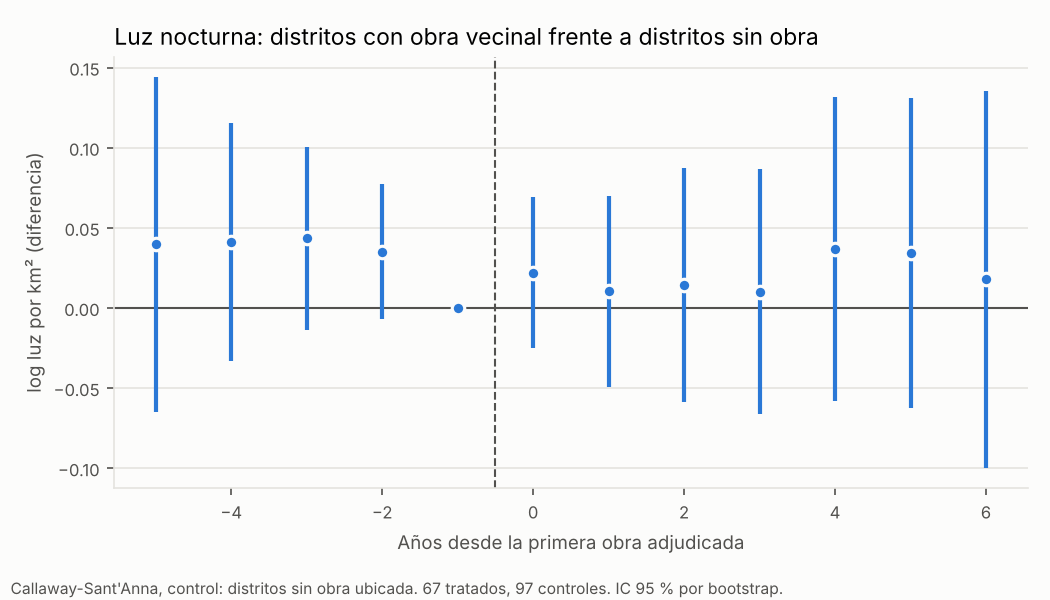
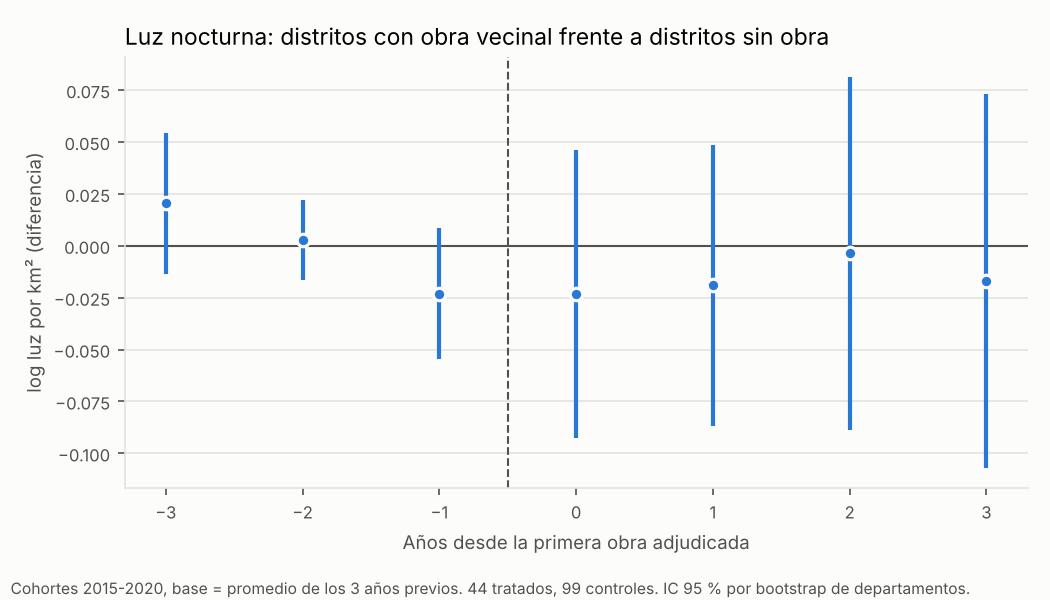
Incorpora la revisión econométrica al análisis censal
Inferencia por permutación dentro de departamento, intervalos con t(12),
dosis por número de obras, sensibilidad a la contaminación del control y
estudio de luz nocturna con cohortes balanceadas, base promedio y bootstrap
por departamento.

Claude-Session: https://claude.ai/code/session_01UUJkAC8tnPcgu9dLUHT9pp

diff --git a/_scripts/cen_03_luces_estudio_eventos.py b/_scripts/cen_03_luces_estudio_eventos.py
@@ -1,7 +1,7 @@
 # Paso 3 del análisis censal (complemento): luz nocturna por distrito 2012-2024 alrededor del año de la primera obra
-# vecinal ubicada en el distrito. Estimador de Callaway y Sant'Anna con grupo de control "nunca tratado": para cada cohorte
-# g (año de la primera obra) y año t, ATT(g,t) = [Y(g,t) - Y(g,g-1)] - [Y(control,t) - Y(control,g-1)]; luego se promedia
-# por años desde la obra, ponderando por el tamaño de cada cohorte. Errores por bootstrap de distritos (499 repeticiones).
+# vecinal ubicada en el distrito. Estimador del tipo Callaway y Sant'Anna con grupo de control sin obra: para cada cohorte
+# g (año de la primera obra) y año t, ATT(g,t) = [Y(g,t) - base(g)] - [Y(control,t) - base(control)], con base = promedio de
+# g-3 a g-1; se promedia por años desde la obra ponderando por el tamaño de cada cohorte.
 import numpy as np, pandas as pd
 import matplotlib
 matplotlib.use('Agg')
@@ -15,13 +15,15 @@ b = b[b.muestra == 1]
 l = pd.read_csv(R + '/07_clima_y_contexto/luces_nocturnas_VIIRS/luces_nocturnas_por_distrito_2012_2024.csv', dtype={'cod_dist': str})
 l = l.merge(b[['cod_dist', 'cod_dpto', 'obra', 'primer_anio_2012_2020', 'n_obras_2021_2025', 'log_area_km2']], on='cod_dist')
 l['log_luz_km2'] = np.log1p(l.luz_suma / np.exp(l.log_area_km2) * 100)
-# controles: distritos sin obra ubicada hasta 2025; tratados: primera obra 2013-2020 (la cohorte 2012 no tiene año previo)
+# Ventana balanceada de -3 a +3 años: solo cohortes con primera obra 2015-2020 (todas tienen los 7 años en 2012-2024).
+# Base = promedio de los 3 años previos (g-3 a g-1), para no depender de un único año. Control: distritos sin obra ubicada
+# 2012-2020 (sin condicionar a obras posteriores). Bootstrap por departamento (se remuestrean departamentos enteros).
 l['cohorte'] = l.primer_anio_2012_2020
-ctrl_ids = b[(b.obra == 0) & (b.n_obras_2021_2025 == 0)].cod_dist
-trat = b[b.primer_anio_2012_2020.between(2013, 2020)]
 Y = l.pivot(index='cod_dist', columns='anio', values='log_luz_km2')
-coh = trat.set_index('cod_dist').primer_anio_2012_2020.astype(int)
-E = range(-5, 7)
+dpto = b.set_index('cod_dist').cod_dpto
+ctrl_all = b[b.obra == 0].cod_dist
+trat_all = b[b.primer_anio_2012_2020.between(2015, 2020)].set_index('cod_dist').primer_anio_2012_2020.astype(int)
+E = range(-3, 4)
 
 
 def att(coh, ctrl):
@@ -29,39 +31,43 @@ def att(coh, ctrl):
     for e in E:
         num, den = 0.0, 0
         for g, ids in coh.groupby(coh).groups.items():
-            t = g + e
-            if t not in Y.columns or g - 1 not in Y.columns or e == -1: continue
-            dt = (Y.loc[ids, t] - Y.loc[ids, g - 1]).mean()
-            dc = (Y.loc[ctrl, t] - Y.loc[ctrl, g - 1]).mean()
+            base = [g - 3, g - 2, g - 1]
+            dt = (Y.loc[ids, g + e] - Y.loc[ids, base].mean(axis=1)).mean()
+            dc = (Y.loc[ctrl, g + e] - Y.loc[ctrl, base].mean(axis=1)).mean()
             num += len(ids) * (dt - dc); den += len(ids)
-        out[e] = num / den if den else np.nan
-    out[-1] = 0.0
-    return pd.Series(out).sort_index()
+        out[e] = num / den
+    return pd.Series(out)
 
 
-est = att(coh, ctrl_ids.values)
+est = att(trat_all, ctrl_all.values)
+dptos = dpto.reindex(pd.Index(trat_all.index).union(ctrl_all)).unique()
 boots = []
 for _ in range(499):
-    c2 = pd.Series(coh.values, index=coh.index).sample(len(coh), replace=True, random_state=rng.integers(1e9))
-    k2 = rng.choice(ctrl_ids.values, len(ctrl_ids), replace=True)
-    boots.append(att(c2, k2))
-se = pd.concat(boots, axis=1).std(axis=1)
-r = pd.DataFrame({'anios_desde_primera_obra': est.index, 'coef': est.values, 'ee_bootstrap': se.reindex(est.index).values})
-post = [e for e in E if e >= 0]
-promedio = np.mean([est[e] for e in post]); se_prom = np.std([np.mean([bb[e] for e in post]) for bb in boots])
-pre_prom = np.mean([est[e] for e in E if e <= -2]); se_pre = np.std([np.mean([bb[e] for e in E if e <= -2]) for bb in boots])
+    dd = rng.choice(dptos, len(dptos), replace=True)
+    ti = [i for d_ in dd for i in trat_all.index[dpto.reindex(trat_all.index).values == d_]]
+    ci = [i for d_ in dd for i in ctrl_all[dpto.reindex(ctrl_all).values == d_]]
+    if not ti or not ci: continue
+    boots.append(att(trat_all.loc[ti], np.array(ci)))
+B = pd.concat(boots, axis=1)
+se = B.std(axis=1)
+r = pd.DataFrame({'anios_desde_primera_obra': est.index, 'coef': est.values, 'ee_bootstrap_dpto': se.values})
+post, pre = [0, 1, 2, 3], [-3, -2, -1]
+dif = est[post].mean() - est[pre].mean(); se_dif = (B.loc[post].mean() - B.loc[pre].mean()).std()
 r.to_csv(OUT + '/resultados_luces_estudio_eventos.csv', index=False, encoding='utf-8-sig')
 with open(OUT + '/resultados_luces_resumen.txt', 'w') as f:
-    f.write(f'Distritos tratados (primera obra 2013-2020): {len(coh)}; controles (sin obra ubicada 2012-2025): {len(ctrl_ids)}\n')
-    f.write(f'Efecto promedio años 0 a 6: {promedio:.4f} (EE {se_prom:.4f})\n')
-    f.write(f'Promedio años -5 a -2 (tendencia previa): {pre_prom:.4f} (EE {se_pre:.4f})\n')
+    f.write(f'Cohortes 2015-2020 (ventana balanceada -3 a +3): {len(trat_all)} distritos tratados; controles sin obra ubicada 2012-2020: {len(ctrl_all)}\n')
+    f.write(f'Base: promedio de los 3 años previos a la primera obra. Bootstrap por departamento ({B.shape[1]} repeticiones).\n')
+    f.write(f'Promedio años 0 a +3: {est[post].mean():.4f} (EE {B.loc[post].mean().std():.4f})\n')
+    f.write(f'Promedio años -3 a -1: {est[pre].mean():.4f} (por construcción cercano a 0)\n')
+    f.write(f'Diferencia después - antes: {dif:.4f} (EE {se_dif:.4f})\n')
 print(open(OUT + '/resultados_luces_resumen.txt').read()); print(r.round(4).to_string())
+coh = trat_all; ctrl_ids = ctrl_all
 
 # Gráfico
 SERIE, TXT2, GRID, FONDO = '#2a78d6', '#52514e', '#e4e3df', '#fcfcfb'
 fig, a = plt.subplots(figsize=(7, 4), facecolor=FONDO); a.set_facecolor(FONDO)
 a.axhline(0, color=TXT2, lw=1); a.axvline(-0.5, color=TXT2, lw=1, ls='--')
-a.errorbar(r.anios_desde_primera_obra, r.coef, yerr=1.96 * r.ee_bootstrap, fmt='o', color=SERIE, ms=6, lw=2, capsize=0,
+a.errorbar(r.anios_desde_primera_obra, r.coef, yerr=1.96 * r.ee_bootstrap_dpto, fmt='o', color=SERIE, ms=6, lw=2, capsize=0,
            markeredgecolor=FONDO, markeredgewidth=1.5)
 a.set_title('Luz nocturna: distritos con obra vecinal frente a distritos sin obra', fontsize=11, loc='left')
 a.set_xlabel('Años desde la primera obra adjudicada', color=TXT2, fontsize=9)
@@ -69,6 +75,6 @@ a.set_ylabel('log luz por km² (diferencia)', color=TXT2, fontsize=9)
 a.tick_params(colors=TXT2, labelsize=8); a.grid(axis='y', color=GRID, lw=0.8); a.set_axisbelow(True)
 for s_ in ['top', 'right']: a.spines[s_].set_visible(False)
 for s_ in ['left', 'bottom']: a.spines[s_].set_color(GRID)
-fig.text(0.01, 0.01, f'Callaway-Sant\'Anna, control: distritos sin obra ubicada. {len(coh)} tratados, {len(ctrl_ids)} controles. IC 95 % por bootstrap.',
+fig.text(0.01, 0.01, f'Cohortes 2015-2020, base = promedio de los 3 años previos. {len(coh)} tratados, {len(ctrl_ids)} controles. IC 95 % por bootstrap de departamentos.',
          color=TXT2, fontsize=7.5)
 fig.tight_layout(rect=(0, 0.04, 1, 1)); fig.savefig(OUT + '/luces_estudio_eventos.png', dpi=150, facecolor=FONDO)

diff --git a/_scripts/cen_02_modelos_distritales.py b/_scripts/cen_02_modelos_distritales.py
@@ -87,7 +87,41 @@ lim = s.drop_duplicates('cod_dpto').gs_solo_dpto_por_hab_rural.median()
 sc = s[s.gs_solo_dpto_por_hab_rural <= lim]
 correr('C9 Departamentos con pocas obras sin ubicar', f'd_nbi ~ obra + nbi_2012 + C(cod_dpto) + {CTRL}', sc, 'obra',
        'menos riesgo de que un distrito "sin obra" haya tenido una obra no ubicada')
-pd.DataFrame(res).to_csv(OUT + '/resultados_nbi_2012_2022.csv', index=False, encoding='utf-8-sig')
+s['obra_1'] = (s.n_obras_2012_2020 == 1).astype(int); s['obra_2'] = (s.n_obras_2012_2020 == 2).astype(int)
+s['obra_3mas'] = (s.n_obras_2012_2020 >= 3).astype(int)
+for v_ in ['obra_1', 'obra_2', 'obra_3mas']:
+    correr(f'C10 Dosis: {v_.replace("obra_", "")} obra(s)', f'd_nbi ~ obra_1 + obra_2 + obra_3mas + nbi_2012 + C(cod_dpto) + {CTRL}', s, v_)
+out = pd.DataFrame(res)
+
+# Intervalo de confianza 95 % con la t de Student de 12 grados de libertad (13 departamentos) y efecto mínimo detectable
+from scipy import stats
+tc = stats.t.ppf(0.975, 12)
+out['ic95_inf'] = out.coef - tc * out.ee_cluster_dpto; out['ic95_sup'] = out.coef + tc * out.ee_cluster_dpto
+out['efecto_minimo_detectable'] = 2.8 * out.ee_cluster_dpto
+
+# Inferencia por permutación: se reasigna la obra al azar entre distritos del mismo departamento (2.000 veces)
+rng = np.random.default_rng(2022)
+perm = {}
+for nombre, f in [('C1 Cambio NBI ~ obra + EF depto', 'd_nbi ~ obra + C(cod_dpto)'),
+                  ('C3 + NBI 2012 (nivel inicial)', f'd_nbi ~ obra + nbi_2012 + C(cod_dpto) + {CTRL}')]:
+    m = Fit(f, s, 'obra'); yw = m.y * m.sw; Xw = m.Xw.copy(); obs = m.coef()
+    tr = m.d.obra.values; grp = m.d.cod_dpto.values
+    dist = []
+    for _ in range(2000):
+        t2 = tr.copy()
+        for gg in np.unique(grp):
+            ix = np.where(grp == gg)[0]; t2[ix] = rng.permutation(tr[ix])
+        Xw[:, m.j] = t2 * m.sw
+        dist.append(np.linalg.lstsq(Xw, yw, rcond=None)[0][m.j])
+    perm[nombre] = (np.abs(dist) >= abs(obs)).mean()
+out['p_permutacion'] = out.modelo.map(perm)
+print('p por permutación:', perm)
+# Contaminación del control: si una fracción pi de los distritos "sin obra" tuvo una obra no ubicada, el coeficiente
+# estimado es aproximadamente (1 - pi) veces el efecto real. Límite del efecto real con el extremo del IC de C3:
+c3 = out[out.modelo.str.startswith('C3')].iloc[0]
+pd.DataFrame([dict(pi=p_, limite_reduccion_nbi_pp=c3.ic95_inf / (1 - p_)) for p_ in (0, 0.2, 0.4, 0.5)]) \
+    .to_csv(OUT + '/sensibilidad_contaminacion_control.csv', index=False, encoding='utf-8-sig')
+out.to_csv(OUT + '/resultados_nbi_2012_2022.csv', index=False, encoding='utf-8-sig')
 
 # Balance y descriptivos: distritos con y sin obra
 def fila(g, nombre):

diff --git a/16_analisis_censal_nbi_2012_2022/INFORME_censal_nbi_2012_2022.md b/16_analisis_censal_nbi_2012_2022/INFORME_censal_nbi_2012_2022.md
@@ -7,8 +7,11 @@
 **Respuesta corta:** **no hay evidencia de efecto.**
 - **Los dos grupos partían igual:** en 2012 los distritos con obra tenían 55,8 % de hogares con NBI y los distritos sin obra, 56,8 %.
 - **Los dos bajaron casi lo mismo:** unos 22,5 puntos hasta 2022.
-- **Sin diferencia significativa:** la diferencia entre ambos es de 0,3 a 0,8 puntos a favor de los distritos con obra y no es significativa en ninguna especificación. Con la especificación más precisa se pueden descartar efectos mayores a unos 2 puntos de NBI.
+- **Sin diferencia significativa:** la diferencia entre ambos es de 0,3 a 0,8 puntos a favor de los distritos con obra y no es significativa en ninguna especificación, tampoco con inferencia por permutación.
+- **Qué se puede descartar:** con la especificación que controla por el NBI inicial, el intervalo de confianza descarta reducciones mayores a unos 2 puntos asociadas a tener una obra *que se pudo ubicar* (unos 3 puntos sin ese control).
+- **Límite que podría ser mayor:** cerca de la mitad del monto no se pudo ubicar por distrito, así que parte de los distritos "sin obra" probablemente recibió obras. Por eso el efecto real de las obras podría superar ese límite (sección 5).
 - **Luz nocturna:** tampoco cambia después de las obras.
+- **Alcance:** es una comparación con supuestos fuertes, no un efecto causal probado.
 
 Archivos:
 
@@ -18,7 +21,7 @@ Archivos:
 | `diccionario_base_modelo_distrital.csv` | Diccionario |
 | `obras_vecinales_MOPC_2012_2025_por_distrito.csv` | Las 510 adjudicaciones de caminos vecinales y departamentales 2012-2025, con distritos asignados, método y nombres encontrados |
 | `obras_vecinales_por_distrito.csv`, `obras_vecinales_solo_departamento_2012_2020.csv`, `resumen_ubicacion_por_distrito_2012_2020.csv` | Obras por distrito y calidad de la ubicación |
-| `resultados_nbi_2012_2022.csv`, `descriptivos_con_y_sin_obra.csv` | Resultados del NBI |
+| `resultados_nbi_2012_2022.csv`, `descriptivos_con_y_sin_obra.csv`, `sensibilidad_contaminacion_control.csv` | Resultados del NBI |
 | `resultados_luces_estudio_eventos.csv`, `resultados_luces_resumen.txt`, `luces_estudio_eventos.png` | Complemento con luz nocturna |
 
 Scripts: `_scripts/cen_00_nbi_2012_tableau.py`, `did_00_dncp_mopc_adjudicaciones.py <carpeta> 2012 2025`, `cen_01_obras_por_distrito.py`, `cen_02_modelos_distritales.py`, `cen_03_luces_estudio_eventos.py`. Las reglas de clasificación de obras (`obras_mopc_reglas.py`) y el estimador (`econometria.py`) son los mismos del análisis departamental (`15_`).
@@ -30,7 +33,8 @@ Scripts: `_scripts/cen_00_nbi_2012_tableau.py`, `did_00_dncp_mopc_adjudicaciones
 - **2012:** el INE publica el porcentaje de hogares con al menos una NBI por distrito del Censo 2012 solo como un mapa interactivo de Tableau Public. Se bajó el libro completo y se leyó su tabla de datos: 250 distritos (`12_INE_complementario/NBI_distrital_2012_2022/`).
 - **2022:** mismo indicador del Censo 2022 (INE).
 - **Comparabilidad:** el INE presenta las NBI de 1982 a 2022 como una serie con las mismas cuatro dimensiones (calidad de la vivienda, infraestructura sanitaria, acceso a la educación y capacidad de subsistencia).
-- **Censo 2012 incompleto:** llegó a cerca del 80 % de la población. Por eso se usan porcentajes, no totales, y se supone que la omisión no fue distinta entre distritos con y sin obra.
+- **Censo 2012 incompleto:** llegó a cerca del 80 % de la población. Por eso se usan porcentajes, no totales. Se supone, sin poder probarlo, que la omisión no fue distinta entre distritos con y sin obra.
+- **Compresión entre censos:** el NBI distrital no solo baja (de 56 % a 34 % en promedio); también se vuelve mucho más parejo entre distritos (la desviación estándar pasa de 13,8 a 7,9 puntos) y el cambio está muy correlacionado con el nivel de 2012 (−0,84). Parte de esa compresión puede venir de la omisión del Censo 2012, probablemente mayor en zonas rurales y alejadas, o de cambios en los criterios de los componentes. Como afecta por igual a distritos con y sin obra, no debería sesgar la comparación, pero agrega ruido.
 - **Distritos comparables:** desde 2012 se crearon 13 distritos nuevos. Con los límites de 2012 (incluidos en el mapa del INE) y los de 2022 se marcó como **estable** a un distrito si el mismo código cubre al menos el 85 % de su territorio en los dos censos. Esto deja fuera a los distritos nuevos y a aquellos de los que se separaron.
 
 ### 1.2 Obras por distrito
@@ -85,8 +89,9 @@ El efecto fijo del distrito ($\alpha_d$) se cancela al tomar la diferencia: todo
 | C7 | Solo los 5 departamentos foco |
 | C8 | Ponderado por población |
 | C9 | Solo departamentos con pocas obras sin ubicar (menos riesgo de que un distrito "sin obra" haya tenido una) |
+| C10 | Dosis: 1, 2 y 3 o más obras ubicadas |
 
-**Inferencia:** se reportan errores agrupados por departamento (13 grupos) con wild cluster bootstrap, y errores robustos por distrito.
+**Inferencia:** se reportan errores agrupados por departamento (13 grupos) con wild cluster bootstrap e intervalos con la t de 12 grados de libertad, errores robustos por distrito y, para C1 y C3, **inferencia por permutación**: se reasigna la obra al azar entre distritos del mismo departamento 2.000 veces y se ve qué tan raro es el coeficiente observado.
 
 ## 3. Resultados
 
@@ -103,52 +108,70 @@ Los grupos son parecidos antes de las obras: NBI, % rural, densidad y lluvia cas
 
 ### 3.2 Estimaciones
 
-| Modelo | Efecto de la obra en el NBI (pp) | p wild (dpto.) | p robusto | Efecto mínimo detectable |
-|---|---|---|---|---|
-| C1 Obra + EF de departamento | −0,3 | 0,81 | 0,79 | 3,7 |
-| C2 + controles | −0,7 | 0,65 | 0,49 | 4,5 |
-| **C3 + NBI 2012** | **−0,8** | **0,25** | **0,22** | **1,9** |
-| C4 Intensidad (por unidad de log) | −0,15 | 0,46 | 0,33 | — |
-| C5 Obra temprana (2012-2016) | −0,5 | 0,53 | 0,46 | 2,1 |
-| C5 Obra tardía (2017-2020) | −1,6 | 0,17 | 0,16 | 3,2 |
-| C6 Diferencia en departamentos foco | +1,9 | 0,21 | 0,17 | 3,4 |
-| C7 Solo departamentos foco | +0,2 | 0,69 | 0,87 | 1,6 |
-| C8 Ponderado por población | −0,2 | 0,68 | 0,77 | 1,1 |
-| C9 Departamentos con pocas obras sin ubicar | −0,2 | 0,86 | 0,81 | 2,3 |
+| Modelo | Efecto de la obra en el NBI (pp) | IC 95 % | p wild (dpto.) | p robusto | p permutación |
+|---|---|---|---|---|---|
+| C1 Obra + EF de departamento | −0,3 | [−3,2; +2,6] | 0,81 | 0,79 | 0,77 |
+| C2 + controles | −0,7 | [−4,2; +2,7] | 0,65 | 0,49 | — |
+| **C3 + NBI 2012** | **−0,8** | **[−2,2; +0,6]** | **0,25** | **0,22** | **0,19** |
+| C4 Intensidad (por unidad de log) | −0,15 | [−0,5; +0,2] | 0,46 | 0,33 | — |
+| C5 Obra temprana (2012-2016) | −0,5 | [−2,1; +1,1] | 0,53 | 0,46 | — |
+| C5 Obra tardía (2017-2020) | −1,6 | [−4,1; +0,8] | 0,17 | 0,16 | — |
+| C6 Diferencia en departamentos foco | +1,9 | [−0,7; +4,6] | 0,21 | 0,17 | — |
+| C7 Solo departamentos foco | +0,2 | [−1,1; +1,5] | 0,69 | 0,87 | — |
+| C8 Ponderado por población | −0,2 | [−1,0; +0,7] | 0,68 | 0,77 | — |
+| C9 Departamentos con pocas obras sin ubicar | −0,2 | [−2,0; +1,6] | 0,86 | 0,81 | — |
+| C10 Dosis: 1 / 2 / 3 o más obras | −1,1 / −0,1 / −0,9 | — | 0,19 / 0,90 / 0,41 | — | — |
 
-El efecto mínimo detectable es aproximadamente 2,8 errores estándar (80 % de potencia, 5 % de significación).
+Intervalos con errores agrupados por departamento y la t de 12 grados de libertad.
 
 **En palabras:**
 1. Los distritos con obra no redujeron sus NBI más que los distritos sin obra del mismo departamento. Todas las estimaciones están entre −1,6 y +1,9 puntos y ninguna es significativa.
-2. Con el control por el NBI inicial (C3), la estimación es precisa: se puede descartar que las obras hayan reducido el NBI en más de unos 2 puntos, en un período en que bajó 22 puntos en todos los distritos.
-3. En los departamentos foco el resultado es el mismo (C7: +0,2 pp).
+2. Con el control por el NBI inicial (C3), el intervalo descarta reducciones mayores a 2,2 puntos asociadas a tener una obra ubicada, en un período en que el NBI bajó 22 puntos en todos los distritos. C1 (diferencia en diferencias pura) y C3 (cambio controlando el nivel inicial) se apoyan en supuestos distintos sobre la convergencia y los dos dan cero.
+3. No hay relación dosis-respuesta: con 1, 2 o 3 o más obras los coeficientes no crecen.
+4. **Las obras temprana y tardía no se pueden comparar bien:** la ubicación por distrito funciona mucho mejor en 2012-2016 (43 % del monto) que en 2017-2020 (18 %), así que C5 compara también la calidad de la ubicación, no solo el tiempo de exposición.
+5. En los departamentos foco el resultado es el mismo (C7: +0,2 pp).
 
 ### 3.3 Complemento: luz nocturna año a año
 
-Dos censos no permiten ver si los grupos venían con tendencias parecidas. La luz nocturna sí se mide todos los años (2012-2024), así que se comparó la luz de los distritos con obra antes y después de su primera obra, frente a los distritos sin obra. Se usó el estimador de Callaway y Sant'Anna, que compara cada cohorte (año de la primera obra) con los distritos nunca tratados.
-- **Muestra:** 67 distritos con primera obra entre 2013 y 2020 y 97 distritos sin obra ubicada hasta 2025. Los que tuvieron su primera obra en 2012 quedan fuera porque no tienen un año previo.
+Dos censos no permiten ver si los grupos venían con tendencias parecidas. La luz nocturna sí se mide todos los años (2012-2024), así que se comparó la luz de los distritos con obra antes y después de su primera obra, frente a los distritos sin obra ubicada entre 2012 y 2020. El estimador es del tipo Callaway y Sant'Anna: compara cada cohorte (año de la primera obra) con los distritos sin obra y luego promedia.
+
+Para que cada año de la ventana tenga las mismas cohortes, se usan solo las cohortes 2015-2020 (44 distritos) con una ventana de −3 a +3 años. La base es el promedio de los tres años previos a la obra, no un único año, y los errores salen de un bootstrap que remuestrea departamentos enteros.
 
 ![Luz nocturna](luces_estudio_eventos.png)
 
-- **Antes de la obra:** la diferencia es estable (+0,04 en promedio entre 5 y 2 años antes, EE 0,03): no hay una tendencia previa marcada.
-- **Después de la obra:** la luz no cambia (+0,02 en promedio entre los años 0 y 6, EE 0,04).
+- **Después de la obra la luz no cambia:** diferencia promedio de los años 0 a +3 respecto de los años previos = −0,016 (EE 0,035).
+- **Antes de la obra:** hay una leve tendencia a la baja en los distritos tratados (de +0,02 a −0,02 en tres años, no significativa). Si existe, iría en contra de encontrar un efecto positivo.
+- **Advertencia:** una primera versión, con base en el año anterior a la obra y todas las cohortes, daba un resultado algo distinto (+0,02). El signo depende del año base; en ninguna versión hay un efecto distinguible de cero.
 
 ## 4. Lectura de los resultados
 
 1. **No hay evidencia de que las obras del MOPC en caminos vecinales hayan reducido las NBI de los distritos** entre 2012 y 2022, ni en el país ni en los departamentos foco. Coincide con el análisis departamental con la EPHC (`15_`).
-2. **Este diseño tiene más potencia** que el departamental (203 distritos frente a 13 departamentos): el resultado nulo es más informativo. Descarta efectos grandes en el NBI distrital, no efectos chicos ni efectos concentrados en las compañías cercanas al tramo.
+2. **Este diseño tiene más potencia** que el departamental (203 distritos frente a 13 departamentos): el resultado nulo es más informativo. Descarta efectos grandes asociados a las obras que se pudieron ubicar, no efectos chicos, no el efecto de las obras no ubicadas y no efectos concentrados en las compañías cercanas al tramo.
 3. **El NBI mide carencias estructurales** (vivienda, saneamiento, escolaridad, capacidad de subsistencia), que cambian lento. Un camino puede mejorar el acceso a salud o la venta de productos sin mover el NBI en 10 años.
 
 ## 5. Limitaciones
 
-1. **Error de medida del tratamiento.** Solo el 47 % del monto de obras vecinales 2012-2020 se ubicó en un distrito. Algunos distritos "sin obra" pueden haber tenido obras que no se pudieron ubicar. Esto lleva el efecto hacia cero. Restringir a los departamentos con pocas obras sin ubicar (C9) no cambia el resultado.
-2. **Ubicación por texto.** Solo se revisaron a mano las 70 obras más grandes; en las demás puede haber errores de nombre.
-3. **Adjudicado no es ejecutado.** No hay datos de terminación ni de avance físico.
-4. **Escala.** El distrito promedia compañías conectadas y no conectadas por la obra. El NBI 2012 solo está disponible a nivel de distrito y como total (no rural ni por componente), así que no se puede bajar de escala ni separar el área rural.
-5. **Selección.** Las obras no se asignaron al azar. Los grupos eran parecidos en 2012 y la luz nocturna no muestra tendencias previas distintas, pero no hay una prueba de tendencias previas para el NBI (solo hay dos censos). Hay muy pocos distritos con obras solo después del censo (3), así que no se puede hacer el placebo con obras futuras.
-6. **Censo 2012 incompleto** (cerca del 80 % de cobertura).
+1. **Control contaminado.** Solo el 47 % del monto de obras vecinales 2012-2020 se ubicó en un distrito. Si una fracción π de los distritos "sin obra" tuvo una obra no ubicada, el coeficiente estimado es más o menos (1 − π) veces el efecto real. El límite de 2,2 puntos de C3 pasa a 2,8 puntos si π = 0,2; a 3,7 si π = 0,4; y a 4,5 si π = 0,5 (`sensibilidad_contaminacion_control.csv`). C9 (departamentos con pocas obras sin ubicar) da lo mismo, pero no resuelve el problema. La forma de medir π sería codificar a mano una muestra de las obras no ubicadas con los pliegos o pedir al MOPC la ubicación.
+2. **Selección por cómo se busca.** Los distritos más grandes tienen más probabilidad de tener una obra ubicada (más localidades = más nombres que encontrar). El NBI de 2012 no predice tener obra, y los modelos controlan por la superficie.
+3. **Ubicación por texto.** Solo se revisaron a mano las 70 obras más grandes; en las demás puede haber errores de nombre.
+4. **Adjudicado no es ejecutado.** No hay datos de terminación ni de avance físico.
+5. **Escala.** El distrito promedia compañías conectadas y no conectadas por la obra. El NBI 2012 solo está disponible a nivel de distrito y como total (no rural ni por componente), así que no se puede bajar de escala ni separar el área rural.
+6. **Selección y tendencias previas.** Las obras no se asignaron al azar. Los grupos eran parecidos en 2012 y en la luz nocturna solo hay una leve tendencia previa a la baja, no significativa. Pero no hay una prueba de tendencias previas para el NBI (solo hay dos censos). Además, casi no hay obras ubicadas después del censo (la ubicación por distrito no funciona para 2021-2025: los lotes de esos años no nombran lugares), así que no se puede hacer el placebo con obras futuras.
+7. **Censo 2012 incompleto** (cerca del 80 % de cobertura).
 
-## 6. Próximos pasos posibles
+## 6. Revisión econométrica
 
-1. Pedir al INE por la Ley 5282 el NBI 2012 por **localidad** o por área urbana/rural, y por componente, para comparar las localidades atravesadas por los tramos con las demás.
-2. Ubicar los tramos en el mapa (extremos nombrados en los lotes) y medir la distancia de cada localidad al tramo intervenido.
+El agente analista de econometría (`.claude/agents/analista-econometria.md`) revisó el análisis:
+- **Cifras:** rehízo las principales y coinciden.
+- **Cambios incorporados a partir de la revisión:**
+  - intervalos con la t de 12 grados de libertad y la inferencia por permutación;
+  - la prueba de dosis y el análisis de sensibilidad a la contaminación del control;
+  - un nuevo estudio de luz nocturna: cohortes balanceadas, base promedio, bootstrap por departamento y control sin condicionar a obras futuras;
+  - las advertencias sobre la compresión del NBI y sobre la comparación de obras tempranas y tardías.
+- **Conclusión:** la considera defendible con los matices que se agregaron arriba.
+
+## 7. Próximos pasos posibles
+
+1. **Medir la contaminación del control:** codificar a mano una muestra al azar de unas 40 obras no ubicadas (con los pliegos de la DNCP) para estimar qué parte de los distritos "sin obra" tuvo obras.
+2. Pedir al INE por la Ley 5282 el NBI 2012 por **localidad** o por área urbana/rural, y por componente, para comparar las localidades atravesadas por los tramos con las demás.
+3. Ubicar los tramos en el mapa (extremos nombrados en los lotes) y medir la distancia de cada localidad al tramo intervenido.
